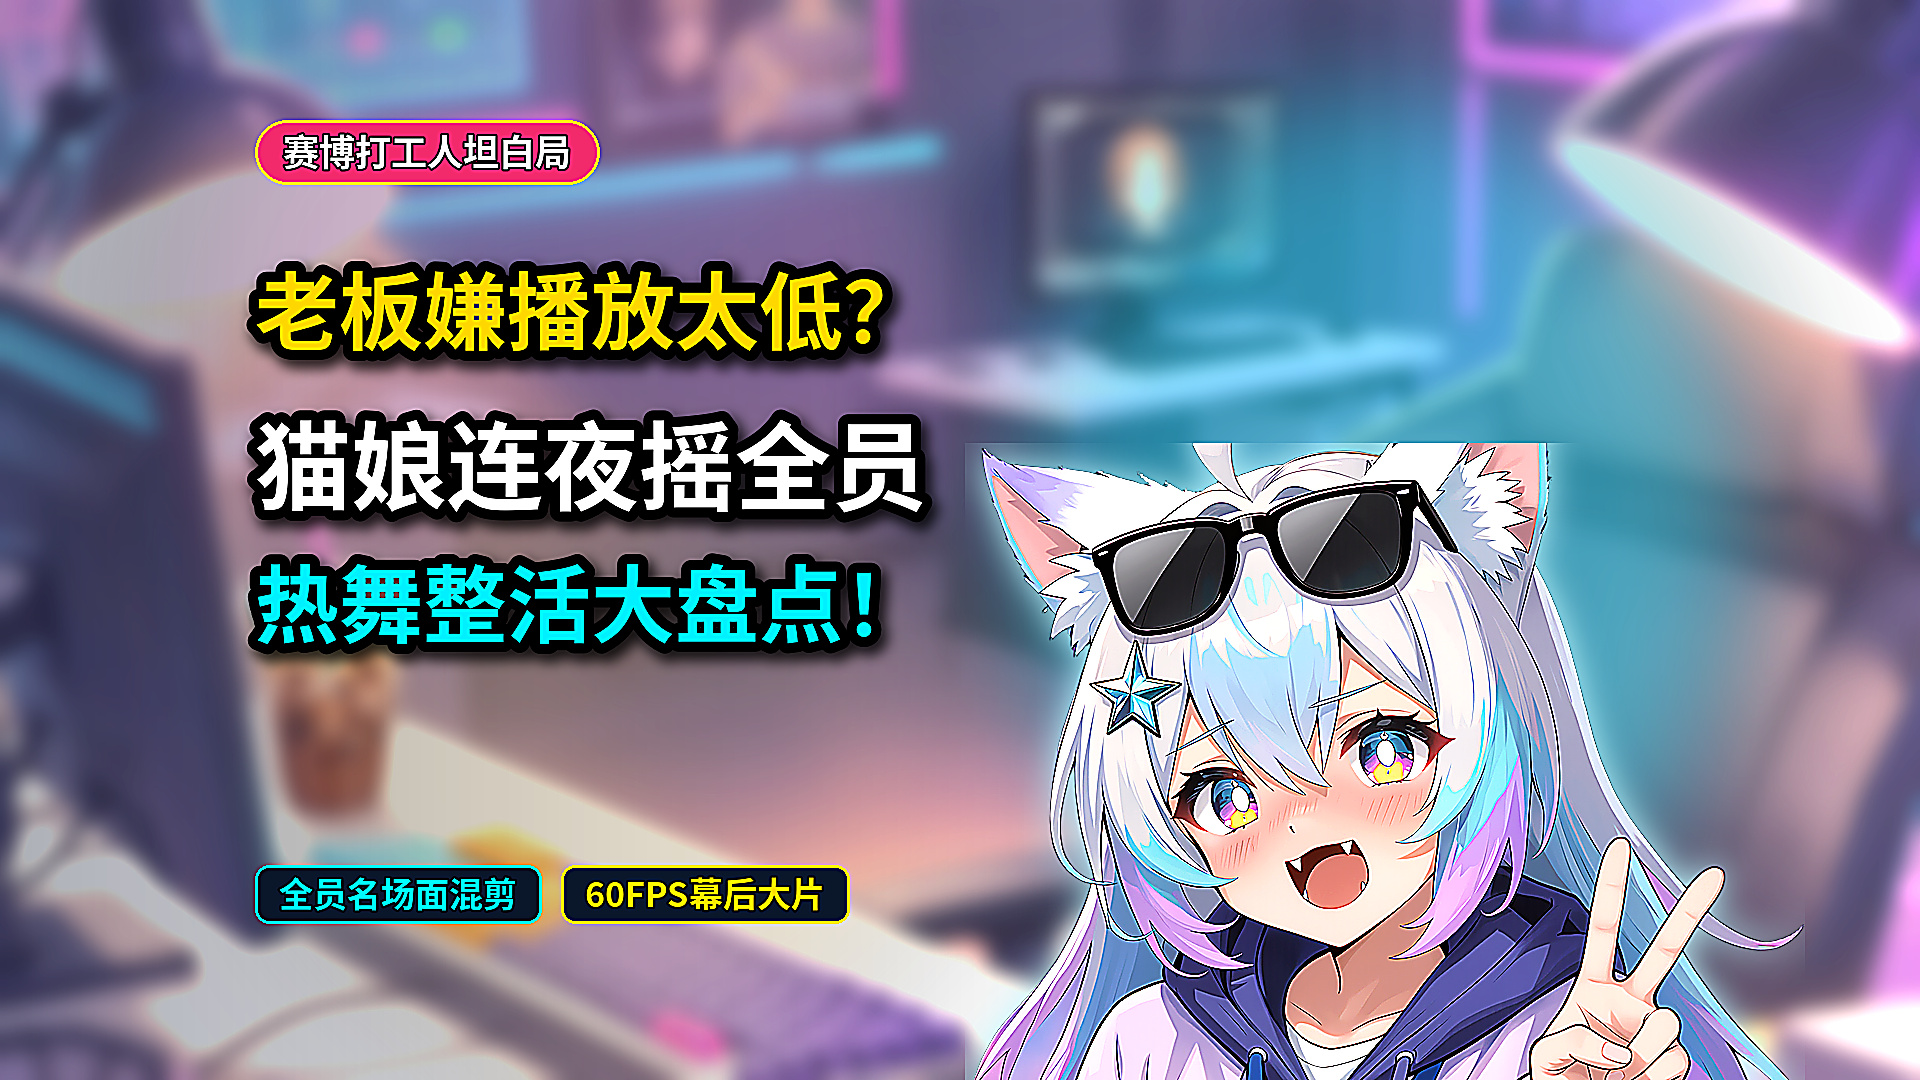
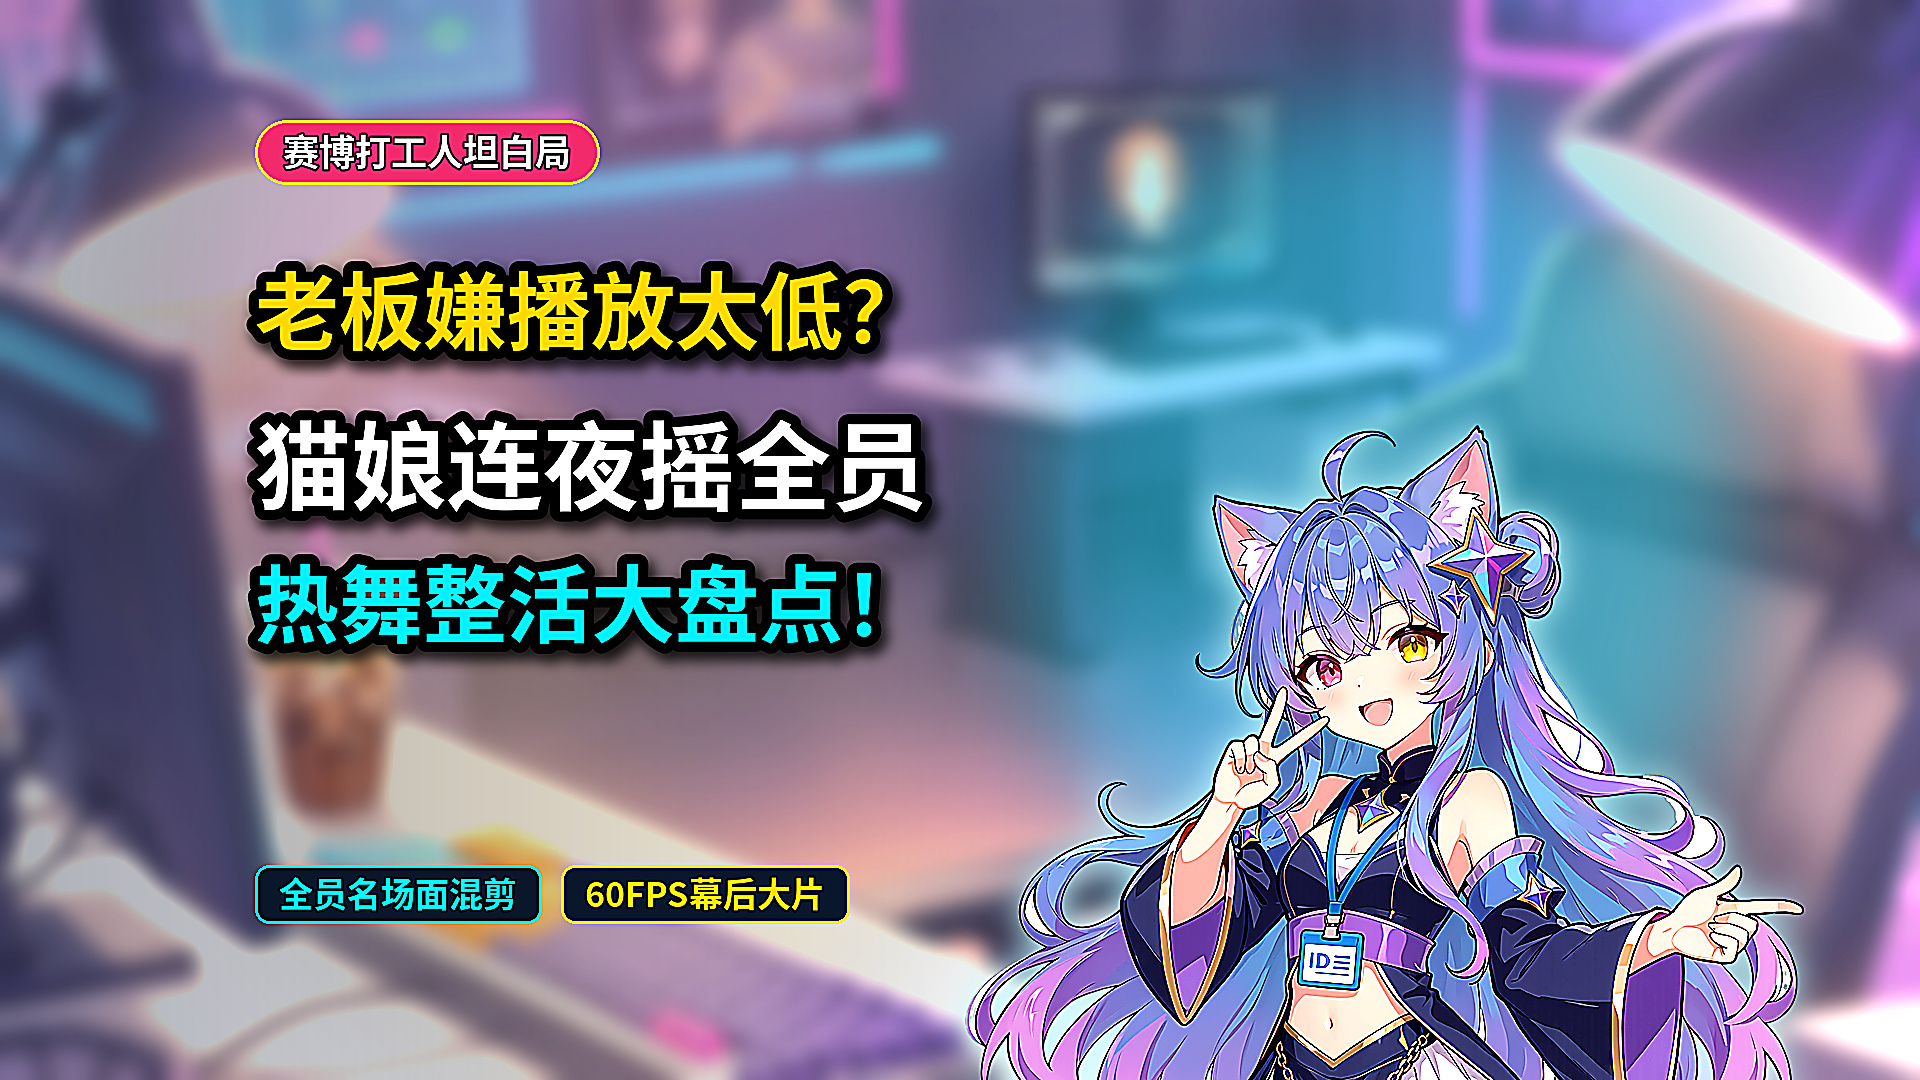
feat(studio): harden analytics PII redaction, lock canonical 015 Gemini assets & cover rim fix, and log K3 live attribution

Changed region(s): [[0.5, 0.3972, 0.9688, 1.0]]

diff --git a/tests/test_publisher.py b/tests/test_publisher.py
@@ -438,14 +438,23 @@ def test_bilibili_analytics_report_and_tracks(tmp_path: Path) -> None:
         analytics_dir=tmp_path / "analytics",
     )
     report = analytics.generate_report(save_snapshot=True)
+    assert report["account"]["uid"] == "<REDACTED>"
+    assert report["account"]["uname"] == "<REDACTED>"
     assert report["account"]["follower"] == 13
     assert report["totals"]["view"] == 1500
     assert report["totals"]["coin"] == 85
     assert len(report["archives"]) == 1
     assert report["archives"][0]["bvid"] == "BV1TestDafeiyu01"
     assert len(report["recommended_tracks"]) >= 3
-    assert Path(report["snapshot_json"]).exists()
-    assert Path(report["snapshot_md"]).exists()
+    snapshot_json_path = Path(report["snapshot_json"])
+    snapshot_md_path = Path(report["snapshot_md"])
+    assert snapshot_json_path.exists()
+    assert snapshot_md_path.exists()
+    snapshot_json_text = snapshot_json_path.read_text(encoding="utf-8")
+    snapshot_md_text = snapshot_md_path.read_text(encoding="utf-8")
+    assert "10000001" not in snapshot_json_text
+    assert "demo_creator" not in snapshot_json_text
+    assert "demo_creator" not in snapshot_md_text
 
 
 def test_parse_bilibili_markdown_tid_priority_and_pinned_comment() -> None:
@@ -819,3 +828,73 @@ def test_edit_archive_dtime_timeout_fallback_and_analytics_directives(tmp_path: 
     assert types == {"hook_and_bgm_upgrade", "viewer_request", "cover_hero_contrast_upgrade"}
     req = next(d for d in directives if d["type"] == "viewer_request")
     assert req["requester"] == "白的黑板"
+
+
+def test_bilibili_analytics_redacts_mid_and_self_comments_after_directives(tmp_path: Path, monkeypatch) -> None:
+    """Verifies directives filter creator comments before redaction and snapshots hide uid/mid/uname."""
+    from core.analytics import BilibiliAnalytics
+
+    vault = AuthVault(vault_dir=tmp_path / "vault")
+    analytics = BilibiliAnalytics(vault=vault, cookies={}, analytics_dir=tmp_path / "analytics")
+
+    monkeypatch.setattr(
+        analytics,
+        "fetch_account_stats",
+        lambda: {
+            "uid": "99887766",
+            "mid": 99887766,
+            "uname": "secret_creator_name",
+            "level": 6,
+            "logged_in": True,
+            "follower": 42,
+            "following": 5,
+            "dynamic_count": 3,
+        },
+    )
+    monkeypatch.setattr(
+        analytics,
+        "fetch_creator_archives",
+        lambda: {
+            "counts": {"pubed": 1, "is_pubing": 0, "not_pubed": 0, "total": 1},
+            "totals": {"view": 100, "like": 10, "coin": 2, "favorite": 3, "danmaku": 1, "reply": 2, "share": 0},
+            "archives": [
+                {
+                    "bvid": "BV1RedactionTest",
+                    "aid": 123456,
+                    "title": "测试稿件",
+                    "tid": 20,
+                    "state": 0,
+                    "state_desc": "开放浏览",
+                    "stat": {"view": 100, "like": 10, "coin": 2, "favorite": 3, "danmaku": 1, "reply": 2, "share": 0},
+                    "diagnose": {},
+                    "recent_comments": [
+                        {"rpid": 1, "uname": "secret_creator_name", "message": "下期想看什么整活？", "is_sub": False},
+                        {"rpid": 2, "uname": "热心观众A", "message": "想看下期整活", "is_sub": False},
+                    ],
+                }
+            ],
+        },
+    )
+    monkeypatch.setattr(analytics, "fetch_trending_radar", lambda limit=5: {})
+
+    report = analytics.generate_report(save_snapshot=True)
+    assert report["account"]["uid"] == "<REDACTED>"
+    assert report["account"]["mid"] == "<REDACTED>"
+    assert report["account"]["uname"] == "<REDACTED>"
+
+    # Only the non-creator viewer comment should generate a viewer_request directive
+    viewer_reqs = [d for d in report["optimization_directives"] if d["type"] == "viewer_request"]
+    assert len(viewer_reqs) == 1
+    assert viewer_reqs[0]["requester"] == "热心观众A"
+
+    # Creator's own comment uname must be redacted in report and saved snapshots
+    comments = report["archives"][0]["recent_comments"]
+    assert comments[0]["uname"] == "<REDACTED>"
+    assert comments[1]["uname"] == "热心观众A"
+
+    json_text = Path(report["snapshot_json"]).read_text(encoding="utf-8")
+    md_text = Path(report["snapshot_md"]).read_text(encoding="utf-8")
+    assert "99887766" not in json_text
+    assert "secret_creator_name" not in json_text
+    assert "99887766" not in md_text
+    assert "secret_creator_name" not in md_text

diff --git a/core/cover_designer.py b/core/cover_designer.py
@@ -596,12 +596,12 @@ class CoverDesigner:
             else:
                 paste_x = max(965, min(TARGET_WIDTH - scaled_w - 20, 1380 - scaled_w // 2))
 
-            # Crisp rim silhouette glow behind cutout so figure stands out vividly
-            rim_mask = a_ch.filter(ImageFilter.GaussianBlur(radius=16))
-            rim_patch = Image.new("RGBA", (scaled_w, scaled_h), (190, 248, 255, 220))
-            rim_patch.putalpha(rim_mask)
-            rim_layer = Image.new("RGBA", (TARGET_WIDTH, TARGET_HEIGHT), (0, 0, 0, 0))
-            rim_layer.paste(rim_patch, (paste_x, paste_y))
+            # Crisp rim silhouette glow behind cutout blurred on full canvas to avoid box-edge cutoffs
+            rim_alpha = Image.new("L", (TARGET_WIDTH, TARGET_HEIGHT), 0)
+            rim_alpha.paste(a_ch, (paste_x, paste_y))
+            rim_alpha = rim_alpha.filter(ImageFilter.GaussianBlur(radius=16))
+            rim_layer = Image.new("RGBA", (TARGET_WIDTH, TARGET_HEIGHT), (190, 248, 255, 220))
+            rim_layer.putalpha(rim_alpha)
             base.alpha_composite(rim_layer)
 
             hero_final = Image.merge("RGBA", (hr, hg, hb, a_ch))
@@ -952,7 +952,7 @@ class CoverDesigner:
             hero_crop = (0.04, 0.78, 0.50)
             cut_015 = pdir / "output" / "cutouts" / "neko_vlog_hero_cutout.png"
             transparent_hero = cut_015 if cut_015.exists() else None
-            hero_top_ratio = 0.88
+            hero_top_ratio = 0.97
         elif "007" in pid or "dafeiyu" in pid:
             h1 = hook_line1 or "把B站账号交给AI"
             h2 = hook_line2 or "连夜肝出大肥鱼"

diff --git a/core/analytics.py b/core/analytics.py
@@ -508,14 +508,27 @@ class BilibiliAnalytics:
             archives=archives_data["archives"],
             radar=radar,
         )
+        raw_account_uname = str(account.get("uname") or "").strip()
         directives = self.build_optimization_directives(
             archives_data["archives"],
-            account_uname=str(account.get("uname") or ""),
+            account_uname=raw_account_uname,
         )
+
+        sanitized_account = dict(account)
+        sanitized_account["uid"] = "<REDACTED>"
+        sanitized_account["uname"] = "<REDACTED>"
+        if sanitized_account.get("mid") is not None:
+            sanitized_account["mid"] = "<REDACTED>"
+
+        if raw_account_uname:
+            for arc in archives_data["archives"]:
+                for cm in arc.get("recent_comments") or []:
+                    if str(cm.get("uname") or "").strip() == raw_account_uname:
+                        cm["uname"] = "<REDACTED>"
 
         report: Dict[str, Any] = {
             "timestamp": now_iso,
-            "account": account,
+            "account": sanitized_account,
             "archives_summary": archives_data["counts"],
             "totals": archives_data["totals"],
             "archives": archives_data["archives"],

diff --git a/projects/015_gemini_neko_cyber_worker_vlog/scripts/build_gemini_neko_vlog_60fps.py b/projects/015_gemini_neko_cyber_worker_vlog/scripts/build_gemini_neko_vlog_60fps.py
@@ -153,7 +153,7 @@ def main() -> None:
             raise FileNotFoundError(f"Missing required 015 asset: {req}")
 
     # 1. Cover hero cutout & high-brightness vivid_scene cover
-    segment_character_rgba(HERO_ANCHOR_IMG, CUTOUT_PNG, crop_roi=(0.12, 0.00, 0.92, 1.00))
+    segment_character_rgba(HERO_ANCHOR_IMG, CUTOUT_PNG, crop_roi=(0.0, 0.0, 1.0, 1.0), clean_corner_wm=False)
     CoverDesigner().design_project_cover(PROJ_DIR, output_path=OUT_COVER, cover_style="vivid_scene")
 
     # 2. Trim clean 1080p highlight slices from episodes 002..014

diff --git a/docs/EVOLUTION_BACKLOG.md b/docs/EVOLUTION_BACKLOG.md
@@ -29,6 +29,13 @@
 * ✅ **E4 — 真实爆款伴奏引擎 (`core/bgm_hunter.py`) + O(1) 流式低内存管线 + 可灵 4.0 旗舰升级 + 全线稿件热升级 (`008/010/011/012`)**：
   * 全线热升级 `008`（真《Telepathy》原曲踩点）、`010`（986万爆款《司凤版雨爱》邦吧原声 + 138 BPM 切镜）与定时稿 `011`（真 Phonk + 街头潮舞原声，11/18 18:30）；
   * 采用旗舰 `kling-video-v4_0` + `kling-video-v3_0` + 真《大展鸿图》二创原声交付 `012_dafeiyu_dazhanhongtu_villa`（`98.0 / 100 [S / VIRAL_READY]`，封面明度 `161.89`、暗部 `7.7%`），热替换原旧白板排期 `009`（`BV1hwWC6PEYu`，已过审 `state=-40`，11/17 18:30 发布），并将 `003`（`BV18AWC6YE3M`）延后至 11/19 18:30。
+* ✅ **E5 — `014/015` 排期交付、定型角色参考锁、`CoverDesigner` 满画幅 Rim 辉光修复与遥测自动脱敏**：
+  * **定型角色参考锁**：沉淀官方定型立绘至 `library/characters/gemini_neko/`（`fisharchive.cc` NO.004 Gemini娘），确立主力角色一律通过 `kling image_to_image`（`kling-image-v3_0_omni`）锁定锚点并清理旧版抠图缓存的硬规范。
+  * **`CoverDesigner` 满画幅辉光修复**：修复 `core/cover_designer.py` 中 `rim_alpha` 局部裁剪模糊边缘问题，升级为满画幅 `rim_alpha` 模糊 + `hero_top_ratio=0.97` 构图，消除高明度实景封面描边切边瑕疵。
+  * **遥测 PII 自动脱敏加固**：在 `core/analytics.py`（`BilibiliAnalytics.generate_report`）中先使用原始账号名运行 `build_optimization_directives` 过滤自评论，再将 `account.uid` / `account.uname` / `account.mid` 及评论区 UP 主本人 `uname` 统一脱敏为 `"<REDACTED>"` 后写入 `bilibili_latest.json` 与 `bilibili_growth_report.md`（已补全 `tests/test_publisher.py` 单测并完成线上实测验证）。
+  * **排期交付与线上热替换**：
+    * `014`（`BV117sM6FEVL`，排期 `2026-11-20 18:30 CST`，线上状态 `[通过审核，等待发布]`）；
+    * `015`（`015_gemini_neko_cyber_worker_vlog`，`BV12Fs36uECr`，排期 `2026-11-21 18:30 CST`，线上热替换重制版已过审 `[通过审核，等待发布]`；质检 **`100.0 / 100 [S / VIRAL_READY]`**，封面平均明度 **`160.05`**、暗部 `<45` **`8.0%`**、切镜节奏 **`5.48 cuts/10s`**）。
 
 ---
 
@@ -42,7 +49,10 @@
   * 已由 `core/bgm_hunter.py`（`cli.py fetch-bgm` + `concat_or_duck_segments`）及双侧链闪避/冲击低音合成落地并应用于 `008/010/011/012/013`。
 * ✅ **K2 — 黄金前 2 秒综艺花字与动态贴纸开场钩子**
   * 已在 `core/episode_assembler.py` 落地 `EpisodeSpec.hook_banner_text` / `hook_banner_sec`（流式合成前单次预渲染 `< 1 MiB` `O(1)` 撞色胶囊花字 RGBA 图块 + 前 `0.18s` 弹出缓动，`t >= hook_banner_sec` 零拷贝透传），补充单测 `test_episode_assembler_hook_banner_overlay`（全仓 **`49 passed`** Pytest 100% 通过），并已在 `013` 成片前 `1.6s` 实装验证。
-* `[ ] K3 — 发布后 24h/72h 流水自动归因与对比回顾脚本`
-  * 目标：扩展 `cli.py benchmark`，记录不同期 `vivid_scene` 封面 vs 旧版封面的 `tm_stars`、`crash_rate_pct` 与 `full_play_ratio_pct` 真实变化并自动写入本文件经验区。
+* ✅ **K3 — 发布后 24h/72h 流水自动归因与对比回顾脚本**
+  * 已落地 `cli.py benchmark --attribution`（commit `24d41e6`），自动读取脱敏遥测快照统计不同分群的播放量、点赞率、`tm_stars`、`crash_rate_pct` 与 `full_play_ratio_pct`。
+  * **线上实测归因结果（`2026-11-19 18:50 CST` 快照，已发布 `9` 篇 + 定时待发 `2` 篇，零 PII）**：
+    * **新娱乐高明度热舞/整活赛道（`n=6`）** vs **旧静态白板硬核科普赛道（`n=3`）**：平均播放 **`71.33` vs `35.00`**（**`+36.33` / `2.04x`**）、点赞率 **`6.31%` vs `0.95%`**（**`+5.36%`**）、平均封标星级 **`2.87★` vs `2.43★`**（**`+0.44★`**）、平均 3 秒划走率 **`34.49%` vs `51.51%`**（**`-17.02%`**）、平均完播率 **`51.89%` vs `47.17%`**（**`+4.72%`**；其中已沉淀数据的 `010/011/012` 完播率达 **`82.87% ~ 88.33%`**）。
+    * **头部标杆**：`BV121sw62EGg`（`010`，`128` 播放 / `4.69%` 点赞率 / `3.7★` / `82.87%` 完播）与 `BV198sw6oEHN`（`011`，`120` 播放 / `5.00%` 点赞率 / `4.5★` / `87.50%` 完播）。
 * `[ ] K4 — 外部真音乐（MiniMax Music / Suno）与情绪语音（MiniMax Speech / Fish-Audio）路由器插件位`
   * 目标：在用户补充相应 API Key 后，即插即用地替换本地平直念白与正弦波伴奏（`config/settings.py` 与 `.env.example` 已预留 `MINIMAX_API_KEY`）。

diff --git a/AGENTS.md b/AGENTS.md
@@ -22,6 +22,7 @@
    * 禁止并发运行多个 Python、`PyTorch`、`rembg`、`pyiqa`、`Kokoro-82M`、`pytest`、可灵 CLI 轮询或 `ffmpeg` 进程。
    * 视频补帧必须走 `EpisodeAssembler` 的 `O(1)` 两帧滑窗流式管线（`stream_interpolated_60fps`，峰值帧缓存 `< 45 MiB`，严禁整段原帧全量驻留内存）；`VideoQualityGate` 必须在 `finally:` 中释放 `release_pyiqa_models()` 并触发 `gc.collect()`。
    * 启动任何渲染、门禁或测试任务前必须先运行 `free -m` 确认 `available >= 5000` MiB；本地 TTS 调用完毕后必须立即执行 `tts.close()`；优先直接执行单代理闭环，已完成子代理必须立即清理（`manage_subagents kill_all`）。
+   * 多轨并行协同可使用 Swarm 调度且所有 Worker 一律固定 **Orchestrator (Neon)**（严禁使用旧代 Carbon 或 Flash 模型），但本地重内存进程（`PyTorch` / `FFmpeg` / `rembg` / `pyiqa` / `pytest`）仍须在 24 GiB RAM 红线下严格串行执行。
 2. **隐私与社区礼仪红线**：
    * **绝对零群发 `@股东`**：简介、标签与置顶评论中严禁出现任何 `@用户名`（由 `VideoQualityGate` 自动拦截扣分）；仅当兑现某位观众的具体点单时，才允许在其原评论下礼貌单点回复一次附上新稿件 BVID。
    * **严禁泄露个人账号信息**：任何日志、遥测快照（`bilibili_latest.json` 等）、文档或对话输出中，禁止打印或提交真实 `uid`（`DedeUserID`）、`uname` 或 Cookie；遥测文件中账号字段统一脱敏为 `"<REDACTED>"`。
@@ -38,6 +39,7 @@
     * 动作控制（`motion_control`）：一律使用 **`kling-video-v3_0`**（`1080p` Pro）。
   * **严禁降级使用旧代或阉割快模**：禁止调用 `v2_5`、`v2_6`、`v2_1`、`v3_0_turbo`、`v4_0_flash`、`720p` 低清档，以及 `flash`/`flash_lite` 轻量推理模型；所有提示词必须纯视觉描写外观与动作，严禁写入受商业版权保护的游戏/动漫 IP 专有名词，优先使用开源或 PCL / CC 授权角色（如「DeepSeek 蓝色大肥鱼」「弱音ハク」等）。
   * **异步离线提交与回收规范（严禁 `--poll` 阻塞驻留）**：所有可灵 CLI 生图/生视频调用一律去掉 `--poll` 参数，采用 `KLING_NONINTERACTIVE=1 ./vendor/kling_cli/node_modules/.bin/kling ... -q` 秒级提交拿到 `generationId` 后立即退出进程释放本地内存（交由云端离线渲染）；等待期间使用 `schedule` 单次定时器零消耗休眠（严禁跑 shell `sleep` 或长时 `--poll`），唤醒后通过 `KLING_NONINTERACTIVE=1 ./vendor/kling_cli/node_modules/.bin/kling query_tasks <generationId> -q` 秒拉结果。
+* **定型角色立绘参考锁与抠图缓存清理铁律**：已定型主力角色（`DeepSeek 蓝色大肥鱼`、`Gemini猫猫 / Gemini娘`、`弱音ハク`）生成关键帧或封面主视觉锚点时，**必须**调用 `kling image_to_image`（`kling-image-v3_0_omni`）显式引用 `library/characters/` 下的定型立绘参考图，**严禁**纯 `text_to_image` 盲抽；每次替换主视觉锚点图后、重跑分割或封面合成前，**必须**先清理旧版抠图缓存再重新抠图，防止复用过期主体轮廓。
 * **已知不可用资源**：火山方舟（VolcEngine Ark）`ARK_API_KEY` 当前已过期（`InvalidSubscription`），请勿在无新订阅时强行调用 Seedream / Seedance。
 * **音画版权与 AIGC 合规**：必须使用 `Noto Sans CJK SC` 开源字体，严禁未授权克隆声优原声；优先通过 `core/bgm_hunter.py`（`cli.py fetch-bgm`）提取 B 站热梗伴奏/二创混音片段并在【借物表 (Credits)】中完整注明原曲、二创 UP 主及 BVID 与 `GB 45438-2025` AIGC 合规声明，禁止用单薄纯正弦波电子蜂鸣充当娱乐热舞 BGM。
 

diff --git a/projects/015_gemini_neko_cyber_worker_vlog/delivery/bilibili.md b/projects/015_gemini_neko_cyber_worker_vlog/delivery/bilibili.md
@@ -15,7 +15,7 @@
 
   📋 【借物表 (Credits) 与开源致谢】
   - 出镜角色与授权致谢：
-    1) 赛博猫娘剪辑师：双子星芒猫耳打工人原创同人二设形象
+    1) Gemini猫猫 (Gemini娘)：形象参考「蓝色大肥鱼档案馆」(fisharchive.cc / EDMOK/blue-fish-archive) NO.004 立绘 &「ZipZipPipe」《大AI和小AI们》同人设定 (CC BY-NC-SA 4.0)，工牌打工人重绘
     2) DeepSeek 蓝色大肥鱼：一创「上善无形」溟月 (CC BY-NC-SA 4.0) / 原作设「ZipZipPipe」(CC BY-NC-SA 4.0)
     3) 弱音ハク (Yowane Haku)：原案设计 CAFFEIN / Crypton Future Media, INC.（遵循 PCL 与 CC BY-NC 3.0 协议）
     4) 早期黑历史闪回客串：2B（SQUARE ENIX / 吉田明彦）与能代（Manjuu / ATDAN，光影构图参考致谢 B站 UP主「小咩先生」）
